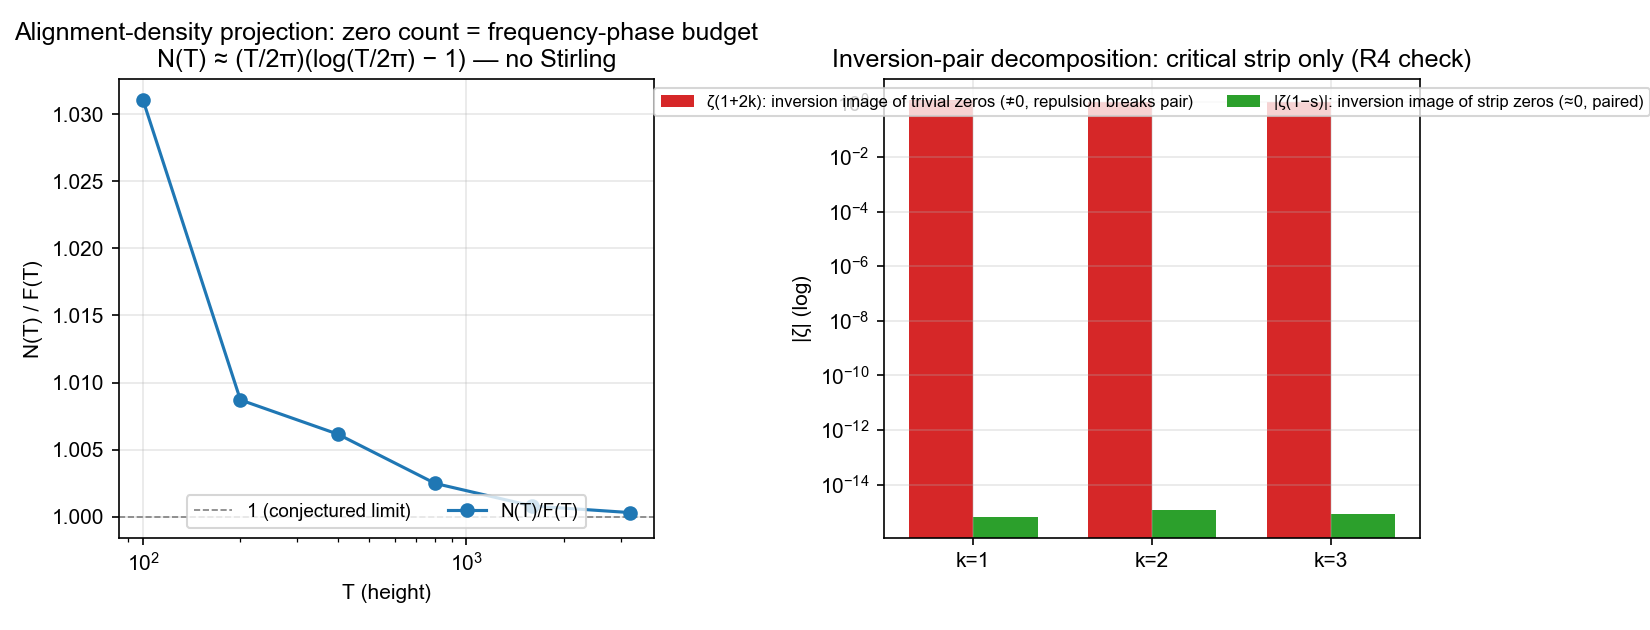
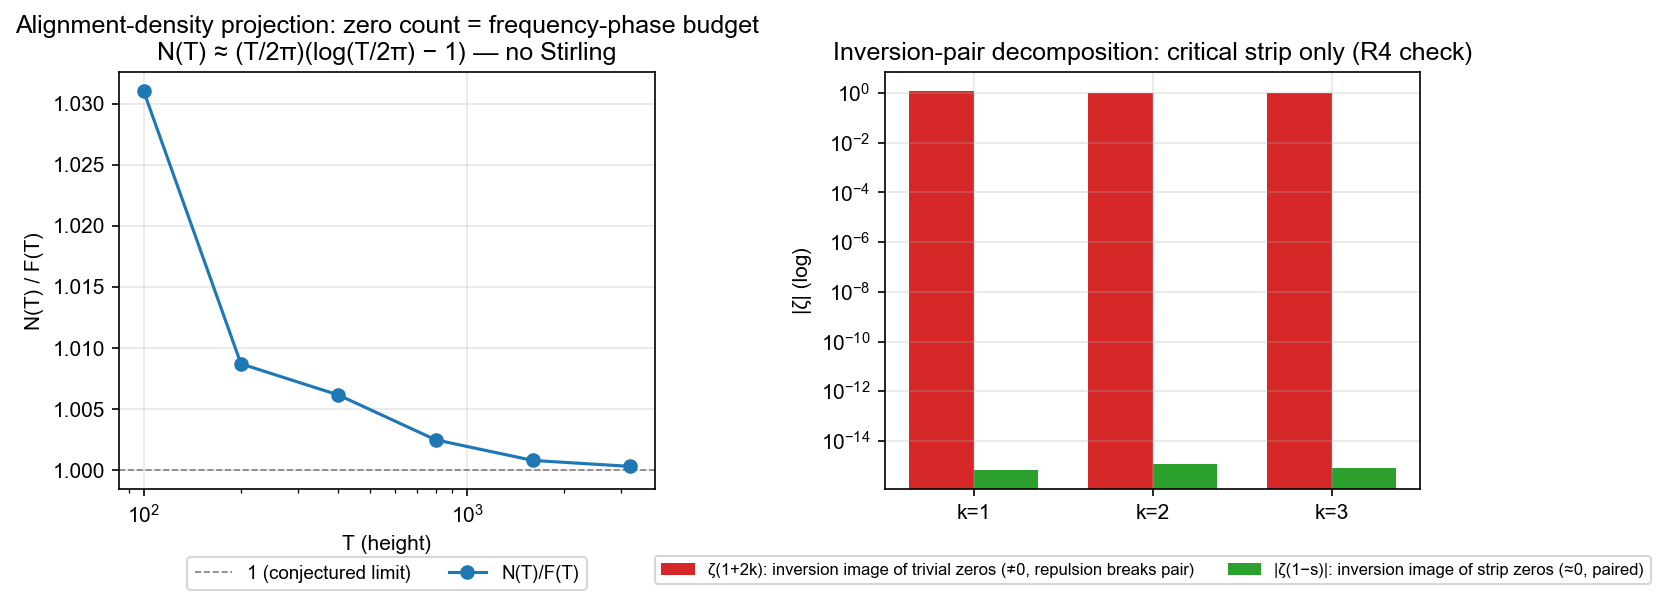
fix(paper): fig15 legends moved outside the axes (bbox_to_anchor below panels, tight bbox)

diff --git a/experiments/fig15_alignment_density.py b/experiments/fig15_alignment_density.py
@@ -85,7 +85,7 @@ ax1.set_xscale("log")
 ax1.set_xlabel(T[LANG]["xlabel_left"])
 ax1.set_ylabel(T[LANG]["ylabel_left"])
 ax1.set_title(T[LANG]["title_left"])
-ax1.legend(loc="lower center", ncol=2, fontsize=9)
+ax1.legend(loc="upper center", bbox_to_anchor=(0.5, -0.14), ncol=2, fontsize=9)
 ax1.grid(alpha=0.3)
 
 # 右: 反演对分解对照
@@ -101,10 +101,10 @@ ax2.set_xticklabels([f"k={k}" for k in kvals])
 ax2.set_yscale("log")
 ax2.set_ylabel(T[LANG]["ylabel_right"])
 ax2.set_title(T[LANG]["title_right"])
-ax2.legend(loc="upper center", ncol=2, fontsize=8)
+ax2.legend(loc="upper center", bbox_to_anchor=(0.5, -0.14), ncol=2, fontsize=8)
 ax2.grid(alpha=0.3)
 
 plt.tight_layout()
 out = f"viz/fig15_{LANG}.png"
-plt.savefig(out, dpi=150)
+plt.savefig(out, dpi=150, bbox_inches="tight")
 print(f"saved {out}")
